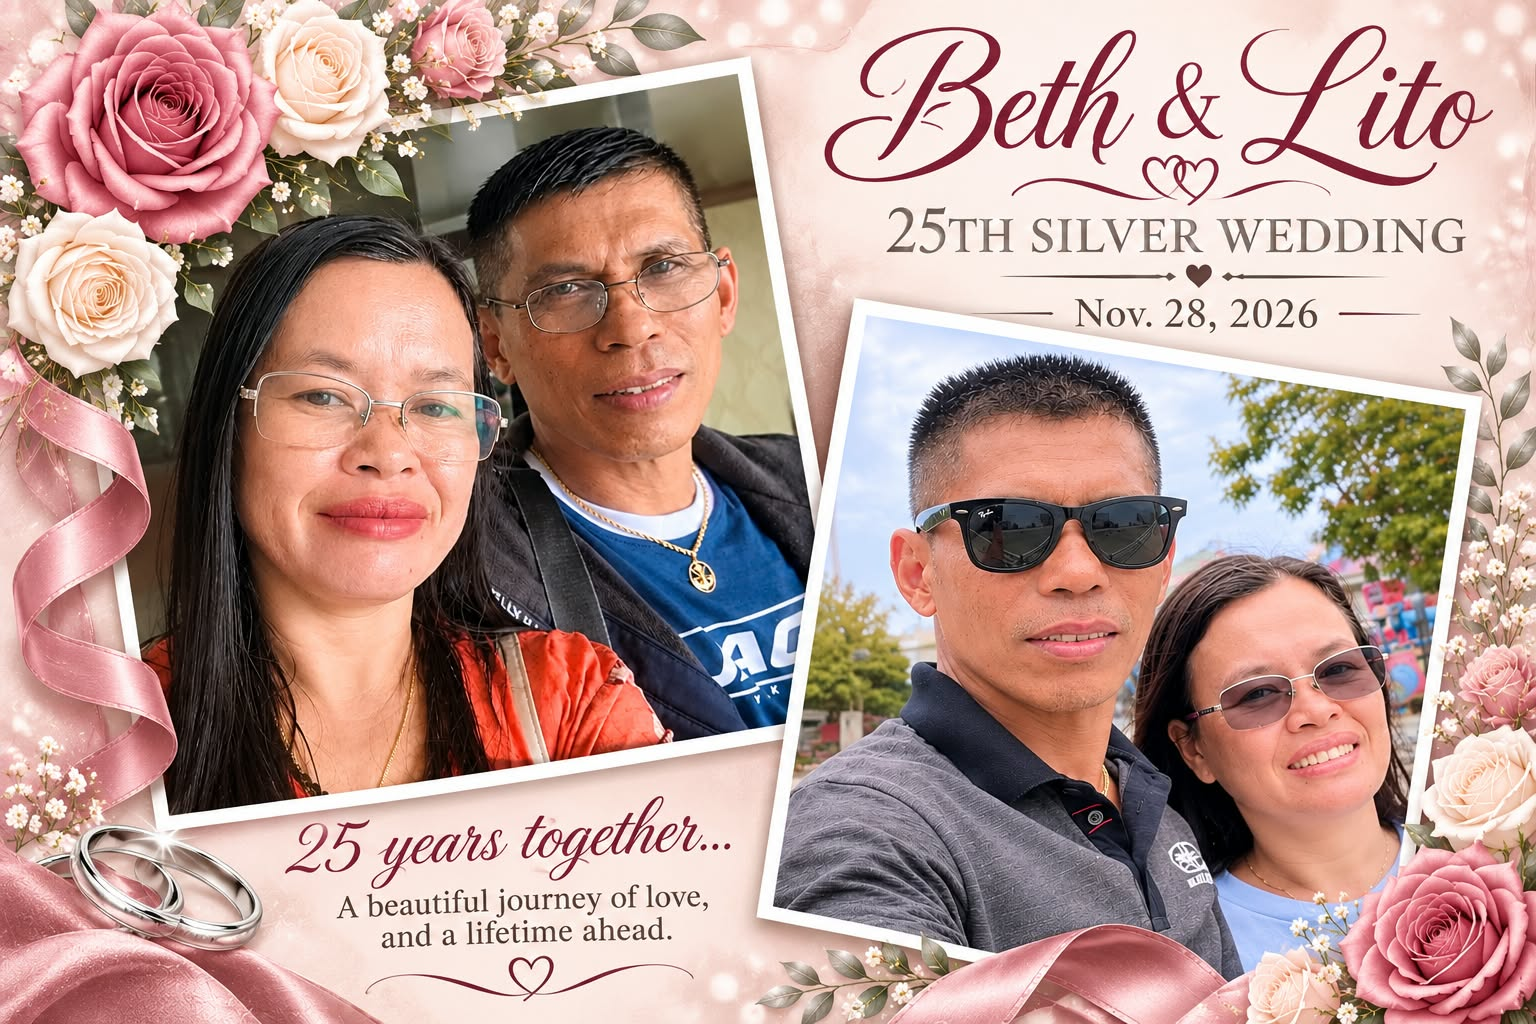
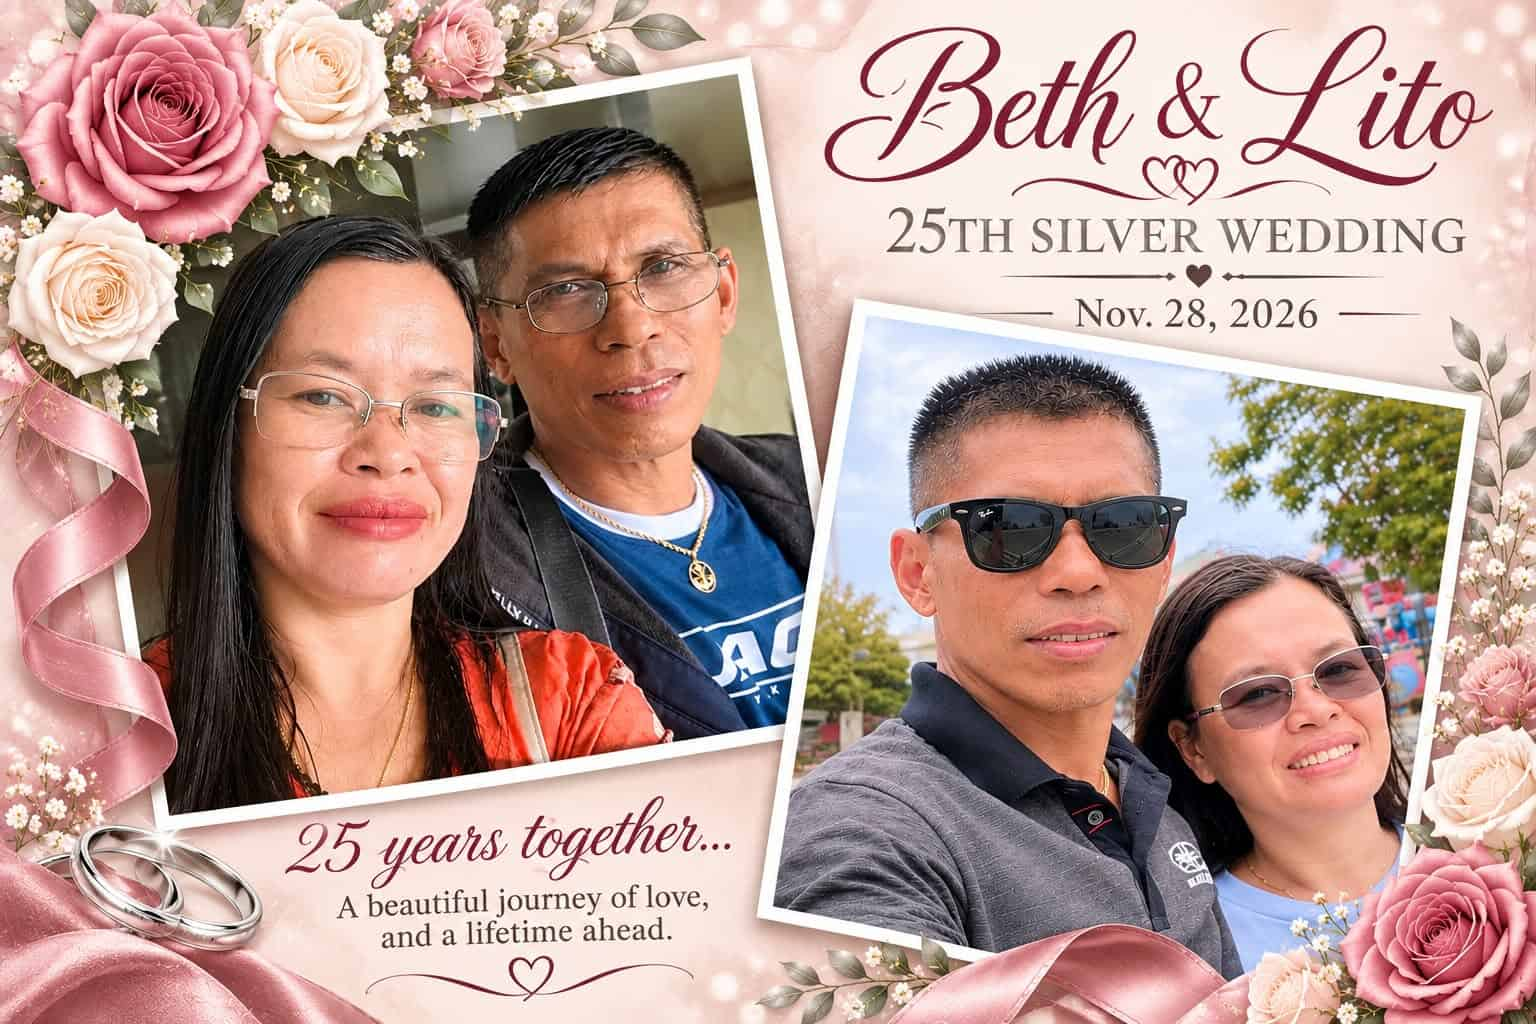
..

diff --git a/js/min/loader.min.js b/js/min/loader.min.js
@@ -1,1 +1,1 @@
-const CONTENT_BUILD_VERSION="11.07.26",SCRIPT_BUILD_VERSION="11.07.26",ANIMATION_VERSION="1.0.0",SCRIPT_VERSION="1.0.0",LISTENER_VERSION="1.0.0",DATA_VERSION="1.0.5",ICON_VERSION="1.0.0",FONT_VERSION="1.0.0",STYLE_VERSION="1.0.0",HTML_LOADING_VERSION="1.0.0",HTML_HEADER_VERSION="1.0.0",HTML_MAIN_VERSION="1.0.0",HTML_FOOTER_VERSION="1.0.0",loadAssets=({rel:t,href:e,type:n})=>new Promise((s,o)=>{const a=document.createElement("link");a.rel=t,a.href=e,n&&(a.type=n),a.onload=s,a.onerror=o,document.head.appendChild(a),"stylesheet"!=t?.toLowerCase()&&s()}),loadContentHTML=async(t,e)=>{const n=await fetch(e),s=await n.text();document.getElementById(t).insertAdjacentHTML("beforeend",s)},loadWebContent=async()=>{await loadAssets({rel:"stylesheet",href:"css/style.min.css?v=1.0.0&11.07.26"}),await loadContentHTML("loadingContent","content/loading.html?v=1.0.0&11.07.26"),await loadAssets({rel:"icon",href:"/assets/favicon.ico?v=1.0.0&11.07.26",type:"image/x-icon"}),await loadAssets({rel:"stylesheet",href:"assets/fonts/fonts.min.css?v=1.0.0&11.07.26"}),await loadContentHTML("mainContent","content/header.html?v=1.0.0&11.07.26"),await loadContentHTML("mainContent","content/main_content.html?v=1.0.0&11.07.26"),await loadContentHTML("mainContent","content/footer.html?v=1.0.0&11.07.26"),console.log("Website content loaded")},scripts=["js/libs/gsap.min.js","js/libs/scrollTrigger.min.js","js/min/animation.min.js?v=1.0.0&11.07.26","js/min/script.min.js?v=1.0.0&11.07.26","js/min/listener.min.js?v=1.0.0&11.07.26","js/min/content.min.js?v=1.0.5&11.07.26"],loadScripts=(t=0)=>{if(t>=scripts.length)return void console.log("Website scripts loaded");const e=document.createElement("script");e.src=scripts[t],e.onload=()=>loadScripts(t+1),document.body.appendChild(e)};(async()=>{await loadWebContent(),loadScripts()})();
+const CONTENT_BUILD_VERSION="11.07.26",SCRIPT_BUILD_VERSION="11.07.26",ANIMATION_VERSION="1.0.0",SCRIPT_VERSION="1.0.0",LISTENER_VERSION="1.0.0",DATA_VERSION="1.0.6",ICON_VERSION="1.0.0",FONT_VERSION="1.0.0",STYLE_VERSION="1.0.0",HTML_LOADING_VERSION="1.0.0",HTML_HEADER_VERSION="1.0.0",HTML_MAIN_VERSION="1.0.0",HTML_FOOTER_VERSION="1.0.0",loadAssets=({rel:t,href:e,type:n})=>new Promise((s,o)=>{const a=document.createElement("link");a.rel=t,a.href=e,n&&(a.type=n),a.onload=s,a.onerror=o,document.head.appendChild(a),"stylesheet"!=t?.toLowerCase()&&s()}),loadContentHTML=async(t,e)=>{const n=await fetch(e),s=await n.text();document.getElementById(t).insertAdjacentHTML("beforeend",s)},loadWebContent=async()=>{await loadAssets({rel:"stylesheet",href:"css/style.min.css?v=1.0.0&11.07.26"}),await loadContentHTML("loadingContent","content/loading.html?v=1.0.0&11.07.26"),await loadAssets({rel:"icon",href:"/assets/favicon.ico?v=1.0.0&11.07.26",type:"image/x-icon"}),await loadAssets({rel:"stylesheet",href:"assets/fonts/fonts.min.css?v=1.0.0&11.07.26"}),await loadContentHTML("mainContent","content/header.html?v=1.0.0&11.07.26"),await loadContentHTML("mainContent","content/main_content.html?v=1.0.0&11.07.26"),await loadContentHTML("mainContent","content/footer.html?v=1.0.0&11.07.26"),console.log("Website content loaded")},scripts=["js/libs/gsap.min.js","js/libs/scrollTrigger.min.js","js/min/animation.min.js?v=1.0.0&11.07.26","js/min/script.min.js?v=1.0.0&11.07.26","js/min/listener.min.js?v=1.0.0&11.07.26","js/min/content.min.js?v=1.0.6&11.07.26"],loadScripts=(t=0)=>{if(t>=scripts.length)return void console.log("Website scripts loaded");const e=document.createElement("script");e.src=scripts[t],e.onload=()=>loadScripts(t+1),document.body.appendChild(e)};(async()=>{await loadWebContent(),loadScripts()})();

diff --git a/js/loader.js b/js/loader.js
@@ -5,7 +5,7 @@ const SCRIPT_BUILD_VERSION = "11.07.26" //reache all
 const ANIMATION_VERSION = "1.0.0";
 const SCRIPT_VERSION = "1.0.0";
 const LISTENER_VERSION = "1.0.0";
-const DATA_VERSION = "1.0.5";
+const DATA_VERSION = "1.0.6";
 
 //Assets
 const ICON_VERSION = "1.0.0";
